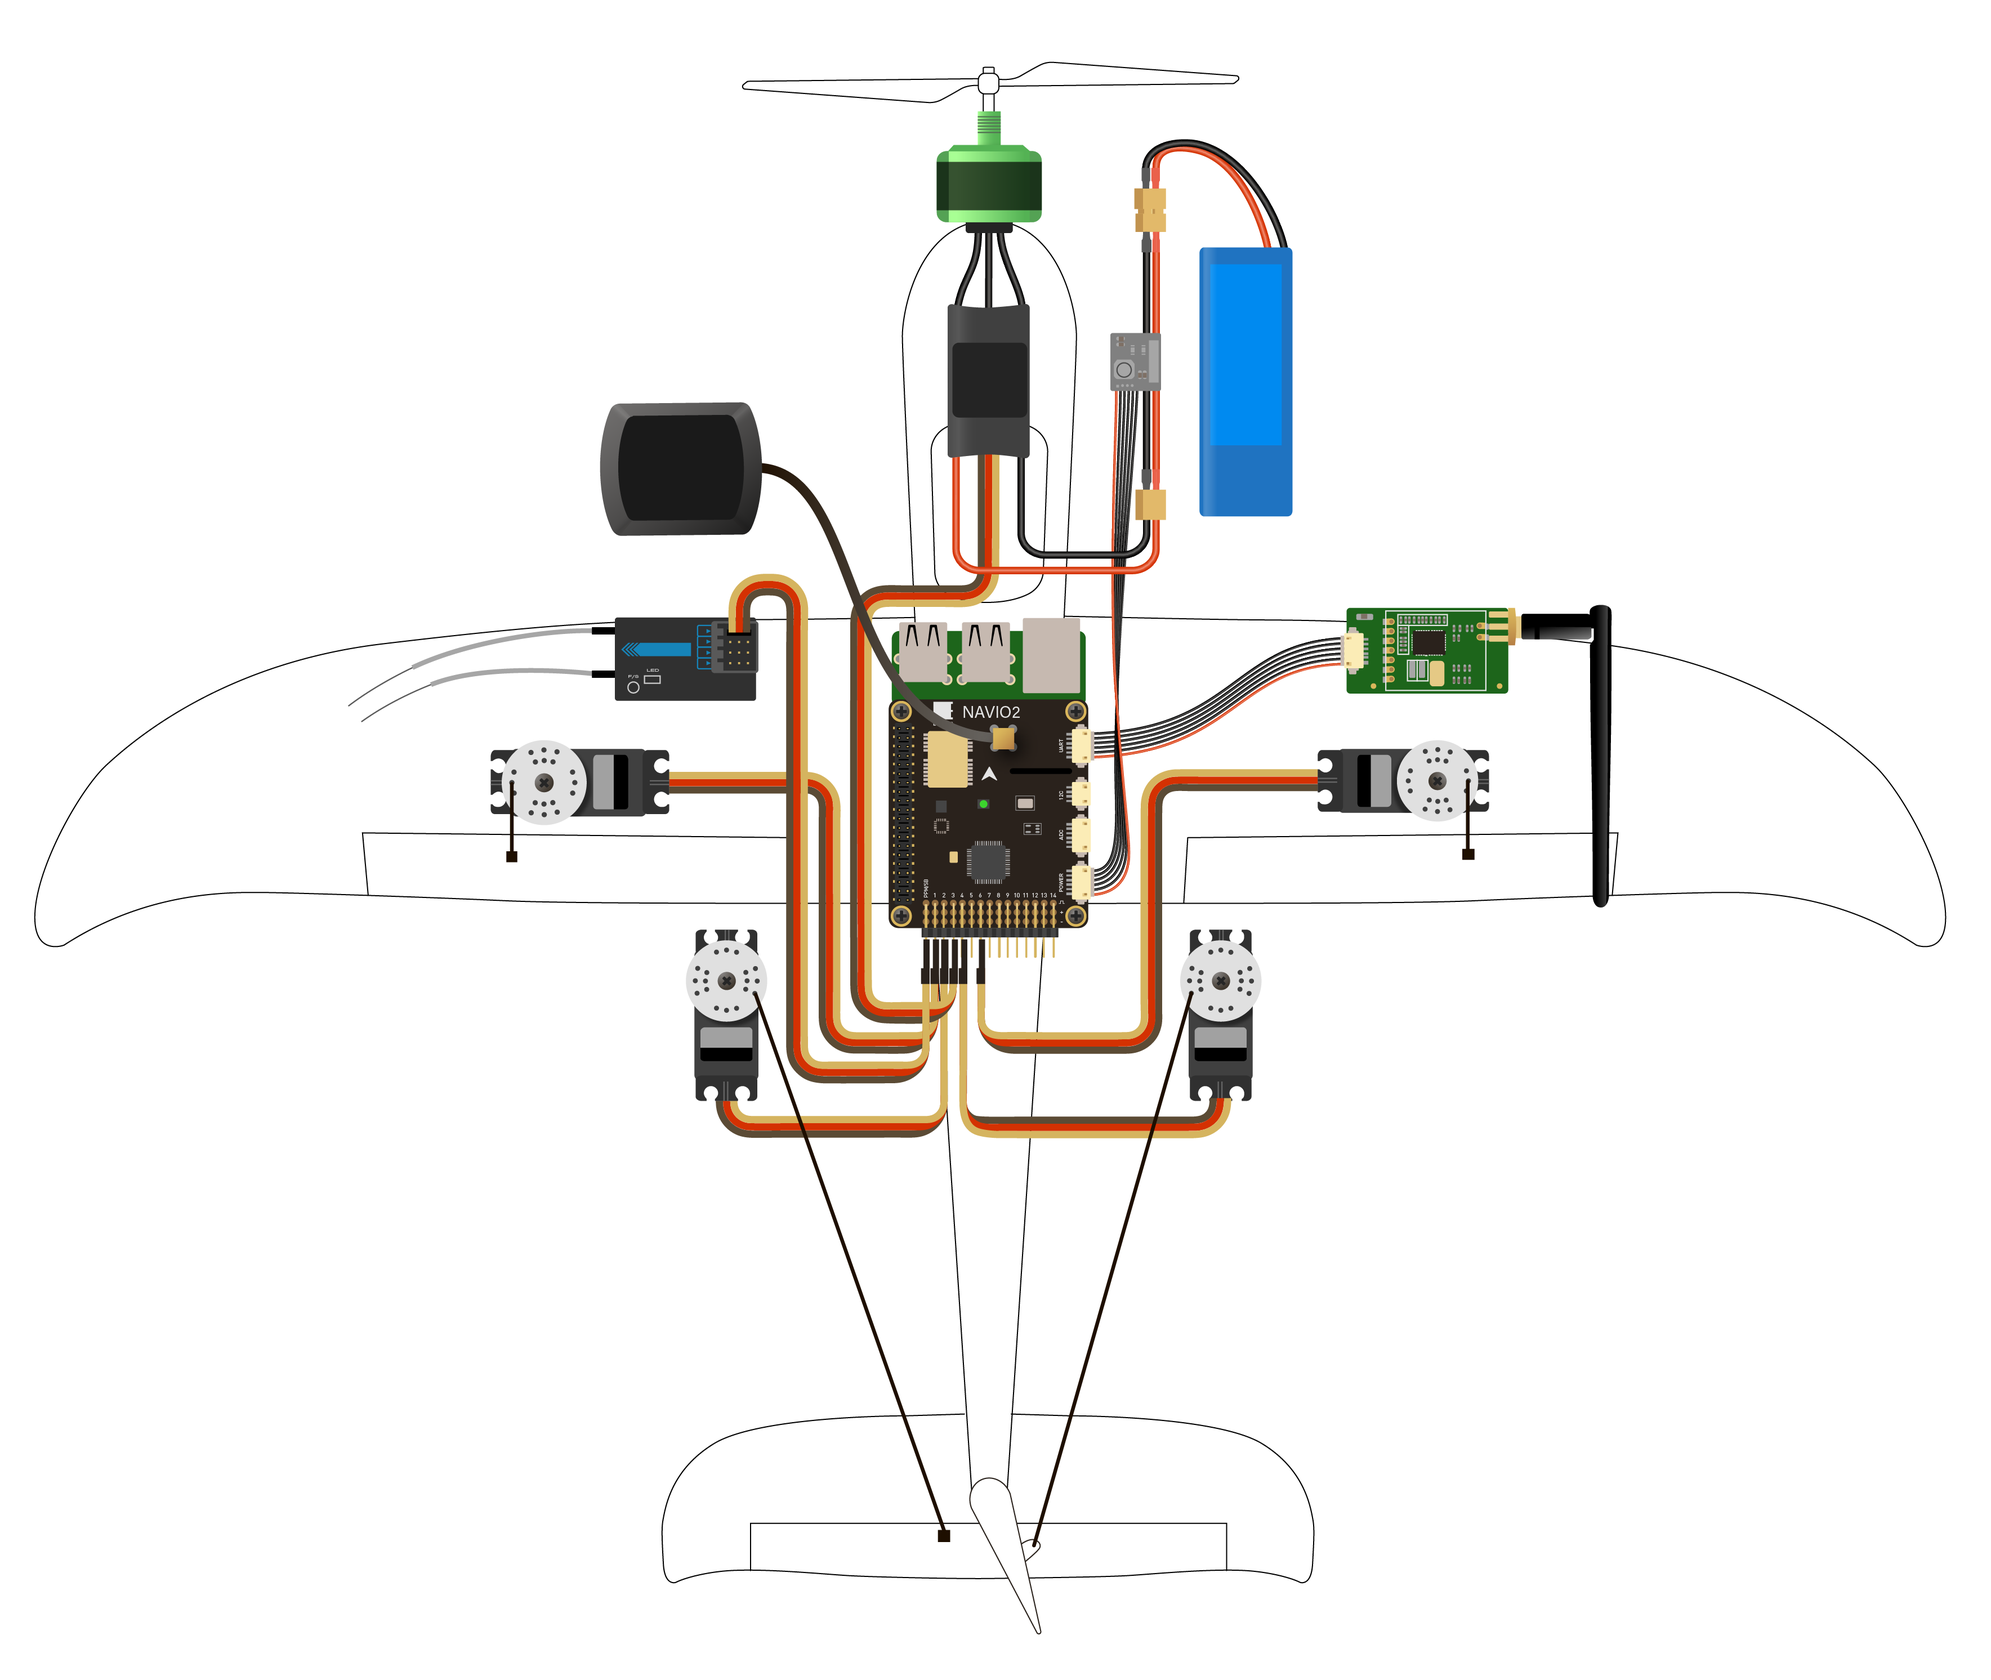
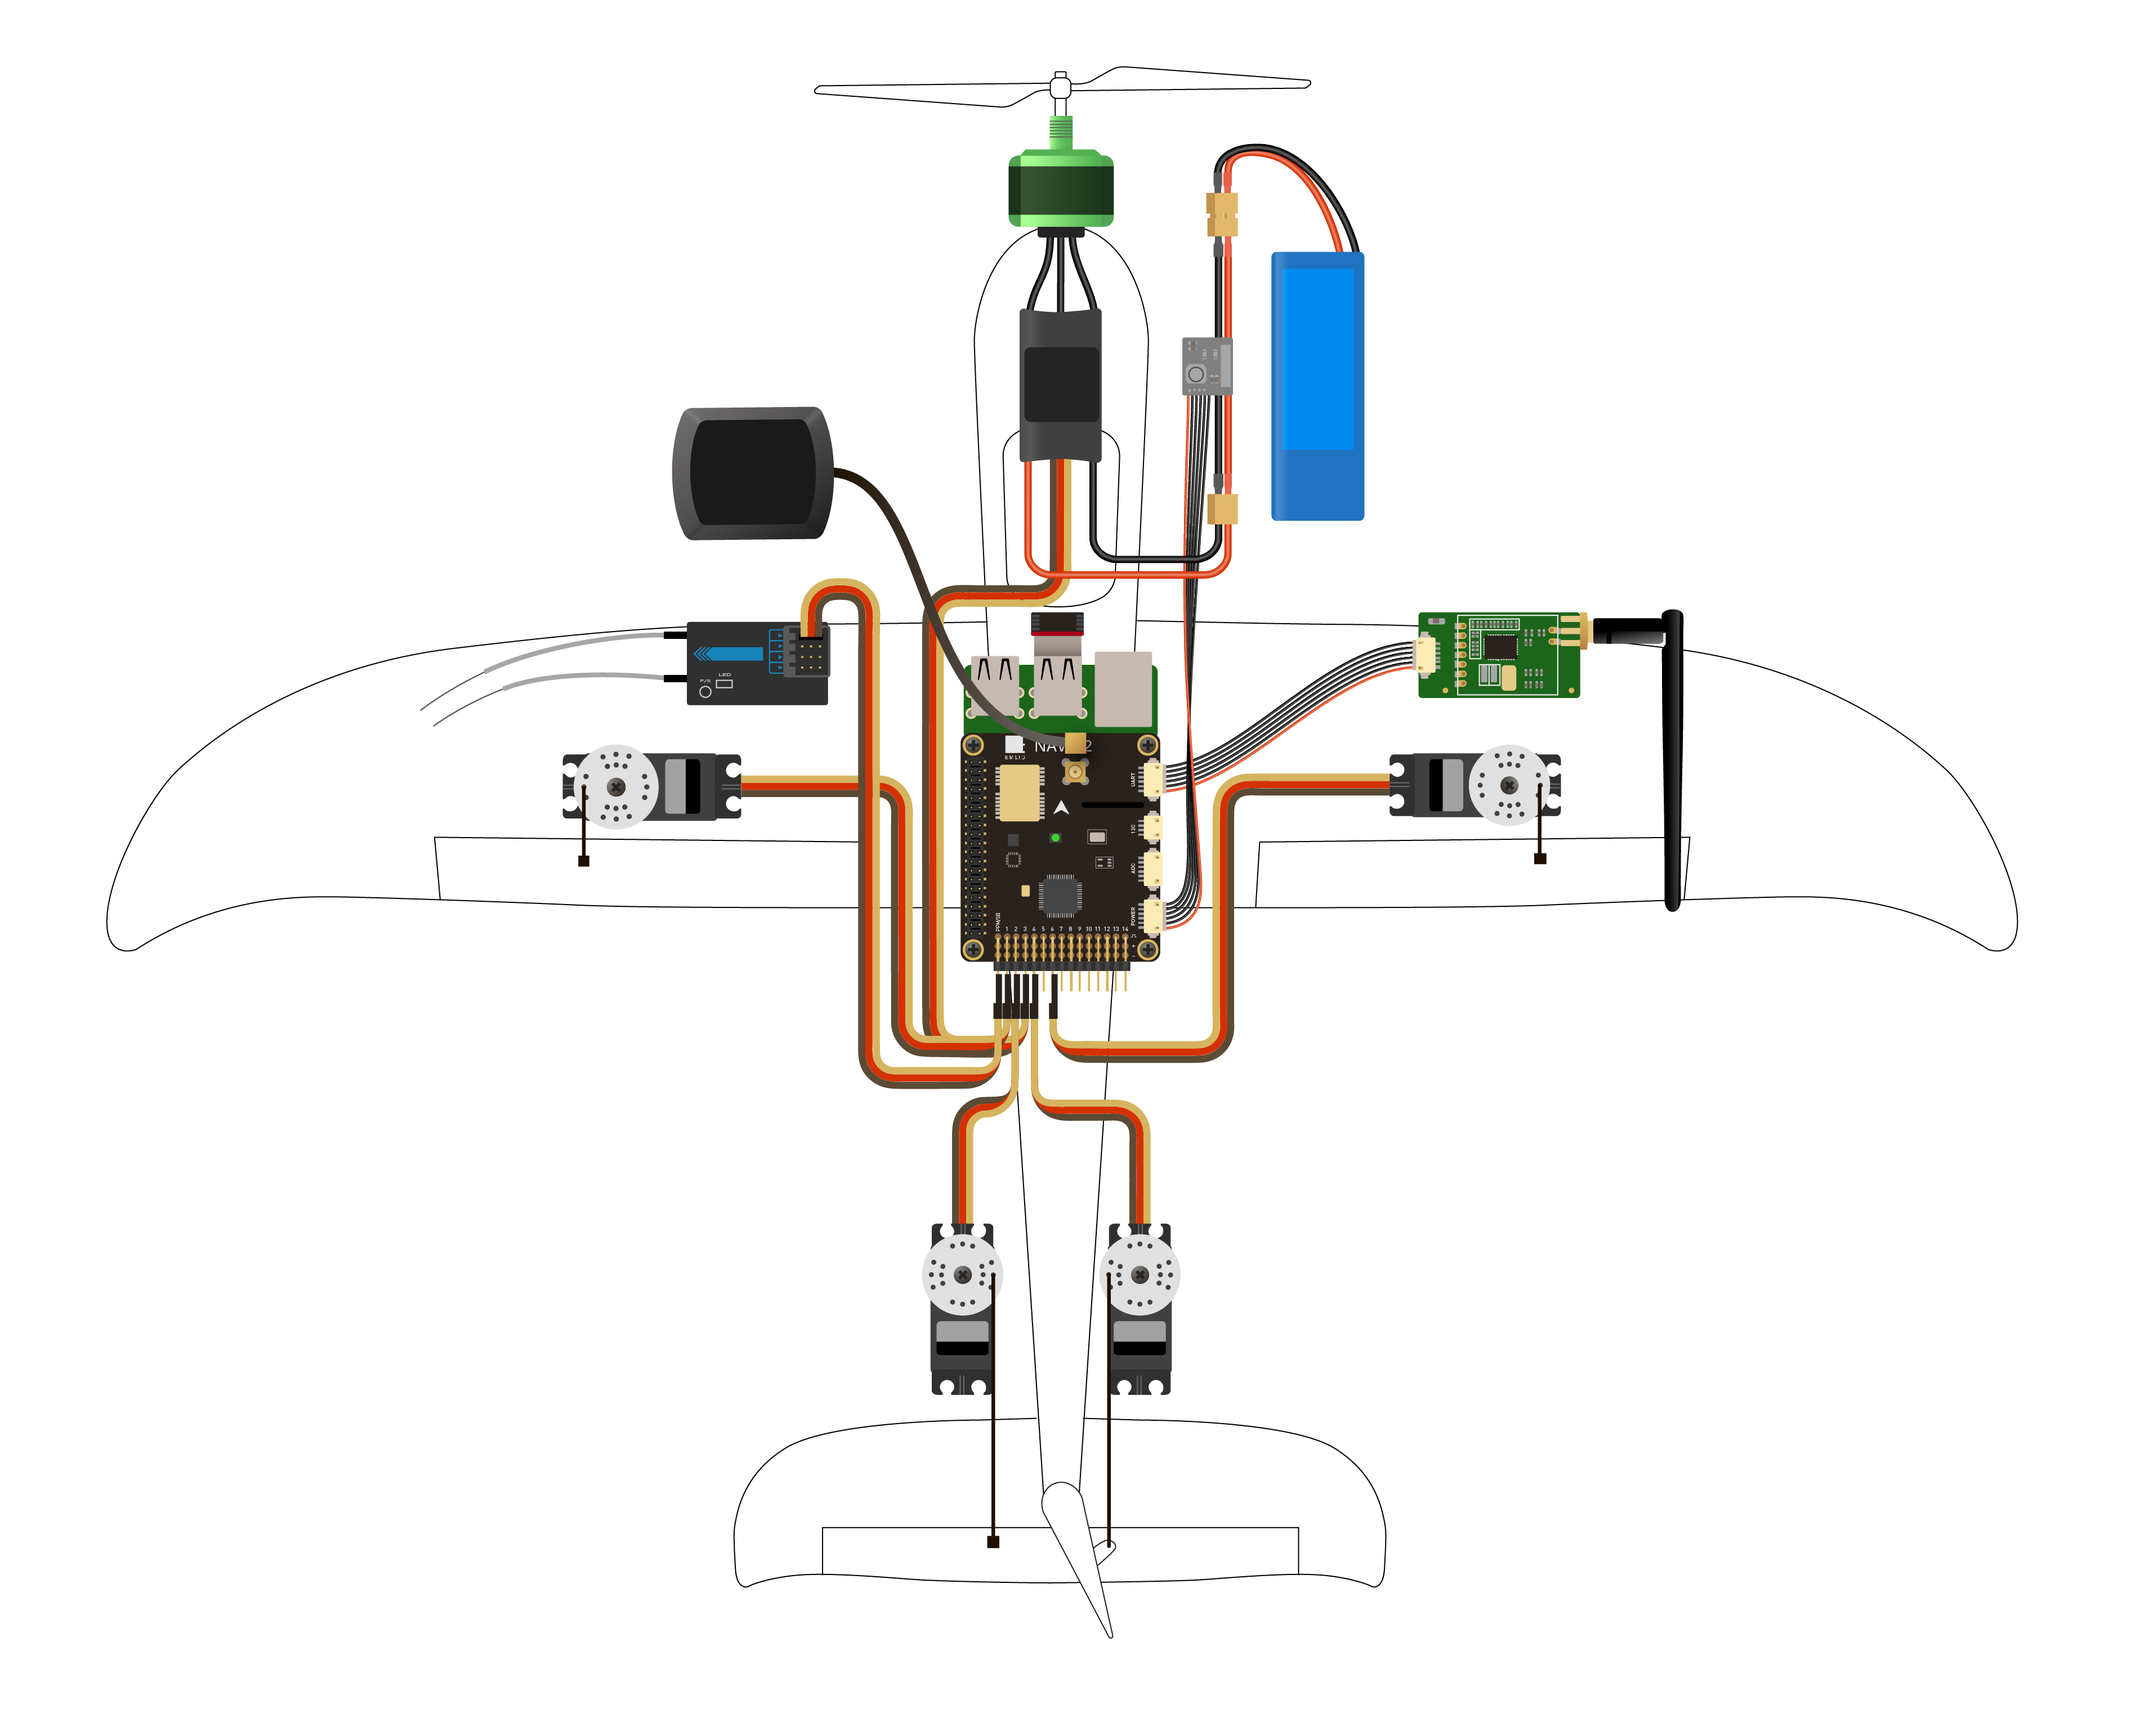
Update typical setups

Changed region(s): [[0.1867, 0.0312, 0.8088, 0.9662], [0.5911, 0.9038, 0.6222, 0.935], [0.3733, 0.9038, 0.4044, 0.935]]

diff --git a/docs/Navio-APM/typical-setup-schemes.md b/docs/Navio-APM/typical-setup-schemes.md
@@ -6,3 +6,9 @@
 ### Plane setup
 
 ![typical-plane-setup-frame](img/navio2-typical-plane-setup-frame.png)
+![typical-plane-setup-scheme](img/navio2-typical-plane-setup-scheme.png)
+
+### Rover setup
+
+![typical-rover-setup-frame](img/navio2-typical-rover-setup-frame.png)
+![typical-rover-setup-scheme](img/navio2-typical-rover-setup-scheme.png)
